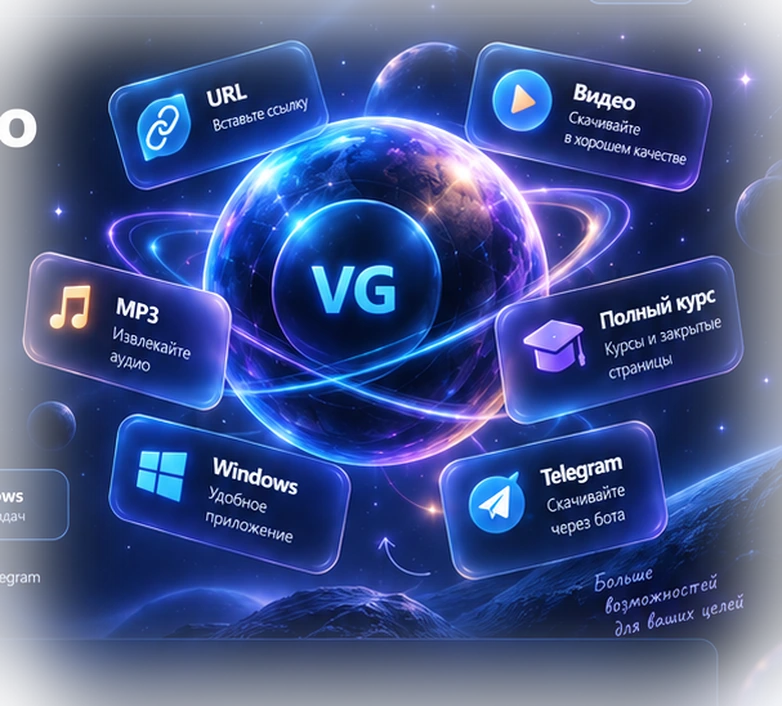
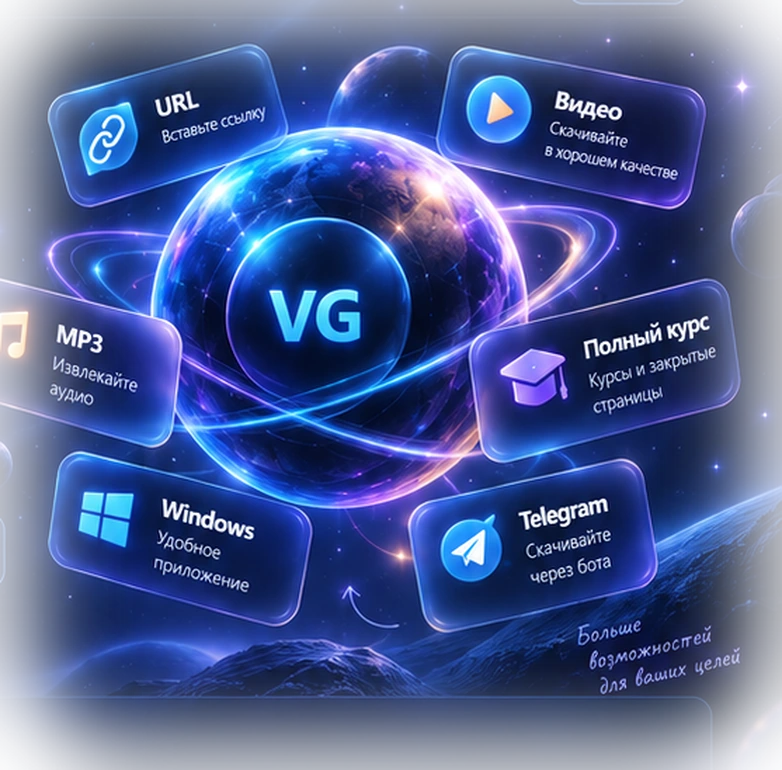
Tighten approved landing-page composition after design QA

diff --git a/src/VideoGrabber.Platform.Api/wwwroot/web/styles.css b/src/VideoGrabber.Platform.Api/wwwroot/web/styles.css
@@ -138,12 +138,12 @@ button { color: inherit; }
 main, footer { width: min(calc(100% - 40px), var(--max)); margin-inline: auto; }
 
 .hero {
-  min-height: 665px;
-  padding: 72px 0 54px;
+  min-height: 560px;
+  padding: 48px 0 34px;
   display: grid;
   grid-template-columns: minmax(0, .92fr) minmax(500px, 1.08fr);
   align-items: center;
-  gap: 42px;
+  gap: 30px;
   position: relative;
 }
 .hero-copy { position: relative; z-index: 5; }
@@ -166,7 +166,7 @@ main, footer { width: min(calc(100% - 40px), var(--max)); margin-inline: auto; }
 .hero h1 {
   margin: 0;
   max-width: 620px;
-  font-size: clamp(52px, 5.2vw, 78px);
+  font-size: clamp(48px, 4.8vw, 70px);
   line-height: .98;
   letter-spacing: -.065em;
   text-wrap: balance;
@@ -178,13 +178,13 @@ main, footer { width: min(calc(100% - 40px), var(--max)); margin-inline: auto; }
   background-clip: text;
 }
 .hero-lead {
-  margin: 28px 0 0;
+  margin: 22px 0 0;
   max-width: 620px;
   color: #bdc9de;
-  font-size: 18px;
-  line-height: 1.6;
+  font-size: 16.5px;
+  line-height: 1.55;
 }
-.hero-actions { display: flex; gap: 12px; flex-wrap: wrap; margin-top: 30px; }
+.hero-actions { display: flex; gap: 12px; flex-wrap: wrap; margin-top: 22px; }
 .button-hero {
   min-width: 210px;
   min-height: 58px;
@@ -193,10 +193,10 @@ main, footer { width: min(calc(100% - 40px), var(--max)); margin-inline: auto; }
   line-height: 1.18;
 }
 .button-hero small { display: block; margin-top: 3px; font-size: 11px; font-weight: 600; opacity: .7; }
-.trust-line { display: flex; gap: 18px; flex-wrap: wrap; margin-top: 22px; color: #b0bdd2; font-size: 13px; }
+.trust-line { display: flex; gap: 16px; flex-wrap: wrap; margin-top: 16px; color: #b0bdd2; font-size: 12px; }
 
 .hero-visual {
-  min-height: 540px;
+  min-height: 470px;
   position: relative;
   perspective: 1200px;
   transform-style: preserve-3d;
@@ -258,15 +258,15 @@ main, footer { width: min(calc(100% - 40px), var(--max)); margin-inline: auto; }
 .hotspot-windows { left: 20%; bottom: 5%; width: 29%; height: 22%; }
 .hotspot-telegram { right: 8%; bottom: 5%; width: 27%; height: 21%; }
 
-.section { padding: 54px 0; position: relative; }
+.section { padding: 38px 0; position: relative; }
 .section-card, .sync-card, .download-card, .panel {
   border: 1px solid var(--line);
   background: linear-gradient(145deg, rgba(13, 27, 53, .84), rgba(7, 15, 31, .82));
   box-shadow: var(--shadow);
   backdrop-filter: blur(16px);
 }
-.section-card { border-radius: var(--radius); padding: 30px; }
-.section-head { display: flex; align-items: end; justify-content: space-between; gap: 28px; margin-bottom: 26px; }
+.section-card { border-radius: var(--radius); padding: 24px; }
+.section-head { display: flex; align-items: end; justify-content: space-between; gap: 24px; margin-bottom: 20px; }
 .section-head h2, .sync-copy h2, .download-card h2, .dashboard-heading h2 {
   margin: 0;
   font-size: clamp(34px, 4vw, 50px);
@@ -274,34 +274,34 @@ main, footer { width: min(calc(100% - 40px), var(--max)); margin-inline: auto; }
   letter-spacing: -.045em;
 }
 .section-head p { margin: 7px 0 0; color: var(--muted); max-width: 640px; }
-.section-head.compact { display: block; margin-bottom: 22px; }
-.section-head.compact h2 { font-size: 34px; }
+.section-head.compact { display: block; margin-bottom: 16px; }
+.section-head.compact h2 { font-size: 31px; }
 
-.steps { display: grid; grid-template-columns: 1fr auto 1fr auto 1fr; gap: 18px; align-items: center; }
-.step { display: grid; grid-template-columns: 70px 1fr; gap: 16px; align-items: center; min-width: 0; }
+.steps { display: grid; grid-template-columns: 1fr auto 1fr auto 1fr; gap: 14px; align-items: center; }
+.step { display: grid; grid-template-columns: 60px 1fr; gap: 13px; align-items: center; min-width: 0; }
 .step-icon {
-  width: 64px; height: 64px; border-radius: 50%; display: grid; place-items: center;
-  font-size: 28px; font-weight: 900;
+  width: 54px; height: 54px; border-radius: 50%; display: grid; place-items: center;
+  font-size: 24px; font-weight: 900;
   border: 1px solid rgba(123, 147, 255, .62);
   background: radial-gradient(circle at 35% 28%, rgba(255,255,255,.18), rgba(77,64,255,.18) 40%, rgba(9,17,36,.9));
   box-shadow: 0 0 28px rgba(93, 67, 255, .3);
 }
-.step strong { font-size: 17px; }
-.step p { margin: 5px 0 0; color: var(--muted); font-size: 14px; }
+.step strong { font-size: 16px; }
+.step p { margin: 4px 0 0; color: var(--muted); font-size: 13px; }
 .step-arrow { font-size: 44px; color: #7294df; font-weight: 200; }
 
 .sync-card {
   border-radius: var(--radius);
-  padding: 30px;
+  padding: 24px;
   display: grid;
   grid-template-columns: 1.1fr 1fr .8fr;
-  gap: 30px;
+  gap: 22px;
   align-items: center;
   overflow: hidden;
   position: relative;
 }
 .sync-copy p:not(.eyebrow) { color: var(--muted); margin: 12px 0 0; max-width: 420px; }
-.sync-copy h2 { font-size: 36px; }
+.sync-copy h2 { font-size: 33px; }
 .auth-panel { min-width: 0; }
 .auth-actions { display: grid; gap: 10px; }
 .email-login-form { display: grid; grid-template-columns: 1fr auto; gap: 10px; }
@@ -323,7 +323,7 @@ label { display: grid; gap: 7px; color: #c9d4e8; font-size: 13px; }
 .status.error { color: #ff8fa2; }
 .status.success { color: #72e4bf; }
 .sync-visual {
-  min-height: 170px;
+  min-height: 145px;
   display: grid;
   place-items: center;
 }
@@ -375,16 +375,16 @@ label { display: grid; gap: 7px; color: #c9d4e8; font-size: 13px; }
 .billing-product { display: grid; align-items: start; }
 .billing-product.selected { border-color: #8d73ff; box-shadow: 0 0 0 2px rgba(117, 88, 255, .12); }
 
-.pricing-section { padding-top: 68px; }
+.pricing-section { padding-top: 46px; }
 .pricing-head { align-items: center; }
 .pricing-head > p { max-width: 560px; }
 .pricing-grid { display: grid; grid-template-columns: repeat(4, 1fr); gap: 14px; }
 .price-card {
-  min-height: 440px;
+  min-height: 385px;
   border: 1px solid rgba(112, 149, 219, .24);
   border-radius: 21px;
   background: linear-gradient(170deg, rgba(15, 29, 58, .92), rgba(6, 14, 30, .97));
-  padding: 22px;
+  padding: 18px;
   position: relative;
   display: flex;
   flex-direction: column;
@@ -410,17 +410,17 @@ label { display: grid; gap: 7px; color: #c9d4e8; font-size: 13px; }
   background: rgba(74, 112, 255, .12); color: #93baff; font-size: 20px;
 }
 .plan { margin: 0; font-weight: 850; font-size: 16px; }
-.price { margin: 4px 0 8px; font-size: 38px; line-height: 1; font-weight: 900; letter-spacing: -.04em; }
+.price { margin: 4px 0 7px; font-size: 34px; line-height: 1; font-weight: 900; letter-spacing: -.04em; }
 .price small { font-size: 11px; color: var(--muted); font-weight: 650; letter-spacing: 0; }
-.plan-for { min-height: 48px; color: var(--muted); margin: 4px 0 16px; font-size: 14px; }
-.feature-list { list-style: none; padding: 16px 0 0; margin: 0 0 22px; border-top: 1px solid rgba(130, 153, 197, .15); display: grid; gap: 12px; }
-.feature-list li { padding-left: 23px; color: #c0cce0; font-size: 14px; position: relative; }
+.plan-for { min-height: 42px; color: var(--muted); margin: 4px 0 12px; font-size: 13px; }
+.feature-list { list-style: none; padding: 13px 0 0; margin: 0 0 16px; border-top: 1px solid rgba(130, 153, 197, .15); display: grid; gap: 9px; }
+.feature-list li { padding-left: 21px; color: #c0cce0; font-size: 13px; position: relative; }
 .feature-list li::before { position: absolute; left: 0; top: 0; font-weight: 900; }
 .feature-list .yes::before { content: "✓"; color: #54e2b9; }
 .feature-list .no::before { content: "×"; color: #e88ac4; }
 .plan-action {
   margin-top: auto;
-  min-height: 48px; border-radius: 13px; cursor: pointer;
+  min-height: 44px; border-radius: 13px; cursor: pointer;
   border: 1px solid rgba(114, 159, 255, .34); background: rgba(25, 49, 91, .74); color: #f4f7ff; font-weight: 800;
 }
 .featured .plan-action {

diff --git a/design-qa.md b/design-qa.md
@@ -1,0 +1,105 @@
+# VideoGrabber Public Site — Design QA
+
+## Source visual truth
+
+- Approved concept: `C:\Users\Oleg\Downloads\Изображение ChatGPT 30 сент. 2026 г., 09_53_49.png`
+- Source pixels: **1122 × 1402**
+- Theme/state: dark desktop landing page, signed out
+- Approved art direction: glossy dark UI, blue/violet/pink highlights, smooth volumetric 3D hero, compact "How it works", account synchronization block, four simple pricing cards.
+
+## Rendered implementation
+
+- Local final implementation: `D:\CODEX\Temp\vg-final-local-84f5bf0.png`
+- Browser: Microsoft Edge / Chromium, headless
+- Requested browser window: **1122 × 1402**
+- Captured content viewport: **1098 × 1263 CSS px**
+- Implementation screenshot pixels: **1098 × 1263**
+- Local route: `http://127.0.0.1:8878/web/`
+- Commit baseline before final density polish: `84f5bf0`
+
+## Primary interactions tested
+
+- Signed-out state is visible; authenticated dashboard is hidden.
+- All four pricing cards open their own dialog.
+- Pricing dialog title and price match the clicked plan.
+- Paid-plan action while signed out routes the user to sign-in context.
+- Native e-mail validation blocks malformed e-mail before network activity.
+- Application-side e-mail validation returns human-readable copy.
+- Hero parallax reacts to pointer movement.
+- Main anchors and destinations exist: How it works, Download, Pricing, Account, Windows installer, Portable ZIP, Telegram.
+- Mobile width smoke test passed without horizontal document overflow.
+- Browser console check: **0 SEVERE errors**.
+
+## Full-view comparison evidence
+
+The approved concept and browser-rendered implementation were inspected together in the same QA pass.
+
+### Earlier P1/P2 findings and fixes
+
+1. **[P1] Residual source-copy artifact inside the hero crop**
+   - Earlier implementation showed a faint fragment of the source headline behind the 3D planet.
+   - Fix: recropped the approved hero artwork farther right and regenerated `videograbber-hero.webp` with a feathered edge.
+   - Post-fix evidence: the final local screenshot no longer shows the stray source headline fragment.
+
+2. **[P1] Sync illustration was a CSS approximation instead of the approved artwork**
+   - Earlier implementation used code-drawn laptop/phone/cloud shapes.
+   - Fix: extracted the approved synchronization artwork into `videograbber-sync.webp` and replaced the approximation.
+   - Post-fix evidence: the sign-in/synchronization block now uses the actual approved visual language.
+
+3. **[P2] Vertical rhythm was much looser than the approved concept**
+   - Earlier implementation pushed pricing far below the first long desktop view.
+   - Fix: reduced hero height/padding, section padding, step icon sizing, synchronization spacing, pricing-card height and feature-list spacing.
+   - Post-fix evidence: the final layout is materially denser and follows the approved composition more closely while retaining responsive web spacing.
+
+## Focused region comparison
+
+Focused comparison was necessary for:
+
+- **Hero imagery:** now uses a real raster asset derived from the approved concept, rather than a CSS reconstruction.
+- **Synchronization artwork:** now uses a real raster asset derived from the approved concept.
+- **Pricing:** retains the approved four-card hierarchy, with Unlimited Video marked `Популярный` and Full Course marked `Для курсов`.
+- **Account block:** rewritten to “Вход и синхронизация” and no longer exposes Supabase/Magic Link implementation wording or raw JavaScript errors.
+
+## Required fidelity surfaces
+
+### Fonts and typography
+
+- Large, heavy display hierarchy follows the reference.
+- Main headline uses the same compact, high-contrast visual hierarchy.
+- Small descriptive text remains readable and less dense than the original generated image.
+- Residual difference: exact font family from the generated source is not identifiable; system/Segoe-style fallback is used. This is **P3**.
+
+### Spacing and layout rhythm
+
+- Header, hero, three-step flow, synchronization block and four-column pricing hierarchy match the reference structure.
+- Density was tightened in the final pass.
+- Residual difference: the responsive production page remains somewhat taller than the single generated reference sheet. This is intentional for readability and responsive behavior and is classified **P3**.
+
+### Colors and visual tokens
+
+- Dark navy base, electric blue/violet accents, pink/gold gradient highlights and bright CTA treatment match the approved direction.
+- Featured Unlimited card and course badge preserve the intended hierarchy.
+
+### Image quality and asset fidelity
+
+- Hero and sync illustrations are derived directly from the approved source image and exported as optimized WebP assets.
+- Hero uses a smooth raster 3D render with parallax interaction rather than a flat SVG/CSS planet.
+- No visible source-text contamination remains after final recrop.
+
+### Copy and product content
+
+- “Тарифы без скрытых кредитов” removed; heading is simply “Тарифы”.
+- “Отправить на мой компьютер” removed.
+- Sign-in copy is human-facing and no longer mentions Supabase/Magic Link.
+- Raw `Cannot set properties of null` / `TypeError` is not exposed.
+- Pricing is organized by scenario and uses positive/negative inclusion markers.
+
+## Remaining P3 polish
+
+- Exact source display font could be matched more closely in a later branding pass.
+- Background cosmic decoration can be made richer with an additional dedicated texture layer if desired, without changing layout or UX.
+- Final page is intentionally taller than the generated concept sheet on some desktop viewports to preserve readable copy and responsive behavior.
+
+## Final result
+
+**passed**
